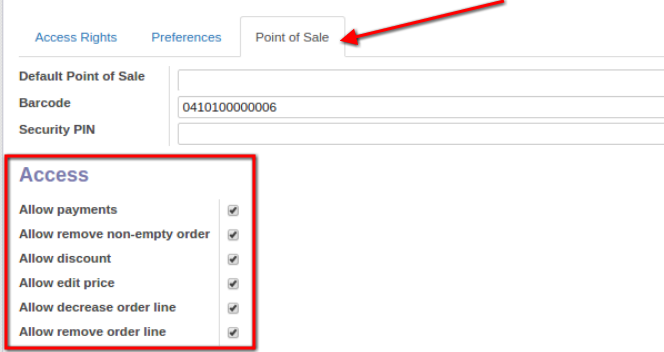
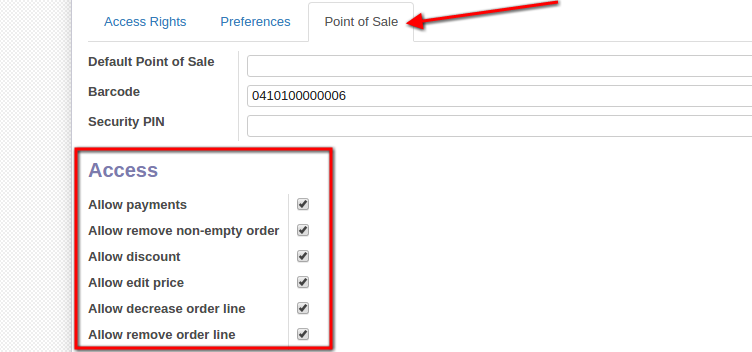
[DOC] screenshot improvements for pos_disable_payment

Changed region(s): [[0.0, 0.0, 1.0, 1.0], [0.2711, 0.25, 1.0, 0.375]]

diff --git a/pos_disable_payment/static/description/index.html b/pos_disable_payment/static/description/index.html
@@ -19,7 +19,7 @@
 		To use go to Settings &rarr; Users section, open user edit form and move to "Point of Sale" tab. 
 	  </p>
 	  <div class="oe_demo oe_picture oe_screenshot">
-		<img src="user_pos_access.png?3"/>
+		<img src="user_pos_access.png?4"/>
 	  </div>
 	</div>
   </div>
